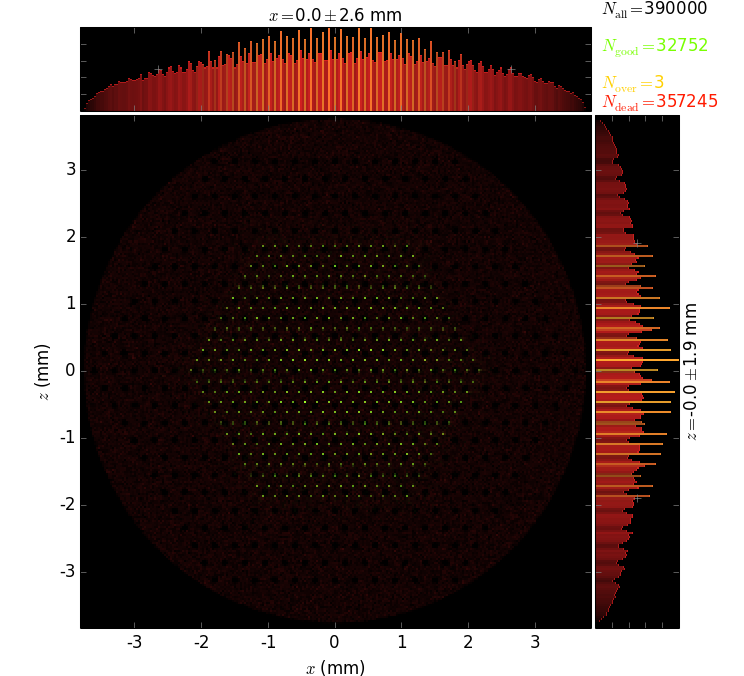
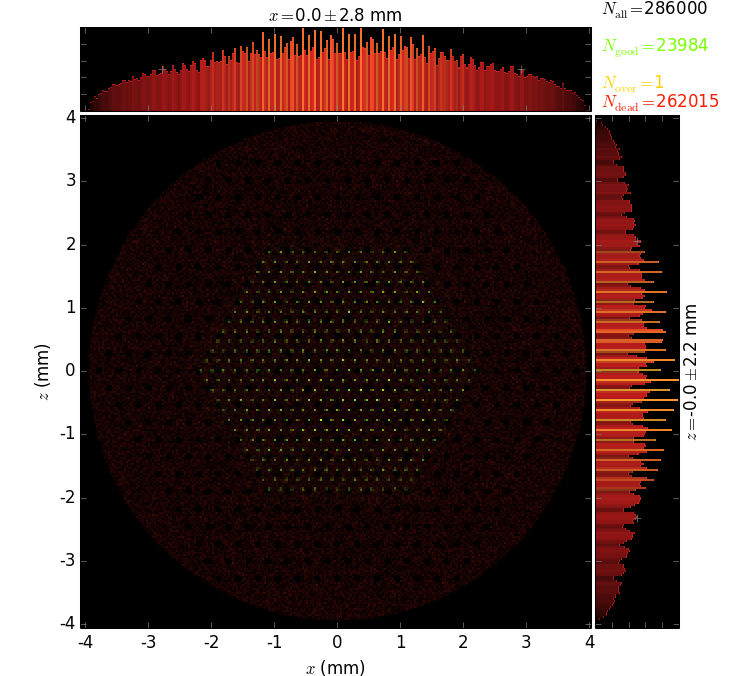
as before, d = f+25, no obvious div

diff --git a/myCapillary0A.py b/myCapillary0A.py
@@ -22,7 +22,7 @@ import xrt.backends.raycing.screens as rsc
 mGlass = rm.Material(('Si', 'O'), quantities=(1, 2), rho=2.2)
 
 E0 = 9000.
-rSample = 100.
+rSample = 100. # starting position of the lens
 f = 500. # y length in mm from foucs to the end of the lens
 r0 = 0.01
 wall = 0.02
@@ -126,7 +126,7 @@ def build_beamline(nrays=1000):
 #    beamLine.sources[0].dxprime = (np.arcsin((2*n-3) * (r0+wall) / rSample),
 #        np.arcsin((2*n+1) * (r0+wall) / rSample))
 #    beamLine.sources[0].dxprime = 0, np.arcsin(r0 / rSample)
-    beamLine.fsm2 = rsc.Screen(beamLine, 'DiamondFSM2', (0, f, 0))
+    beamLine.fsm2 = rsc.Screen(beamLine, 'DiamondFSM2', (0, f+25, 0))
     return beamLine
 
 def run_process(beamLine, shineOnly1stSource=False):
